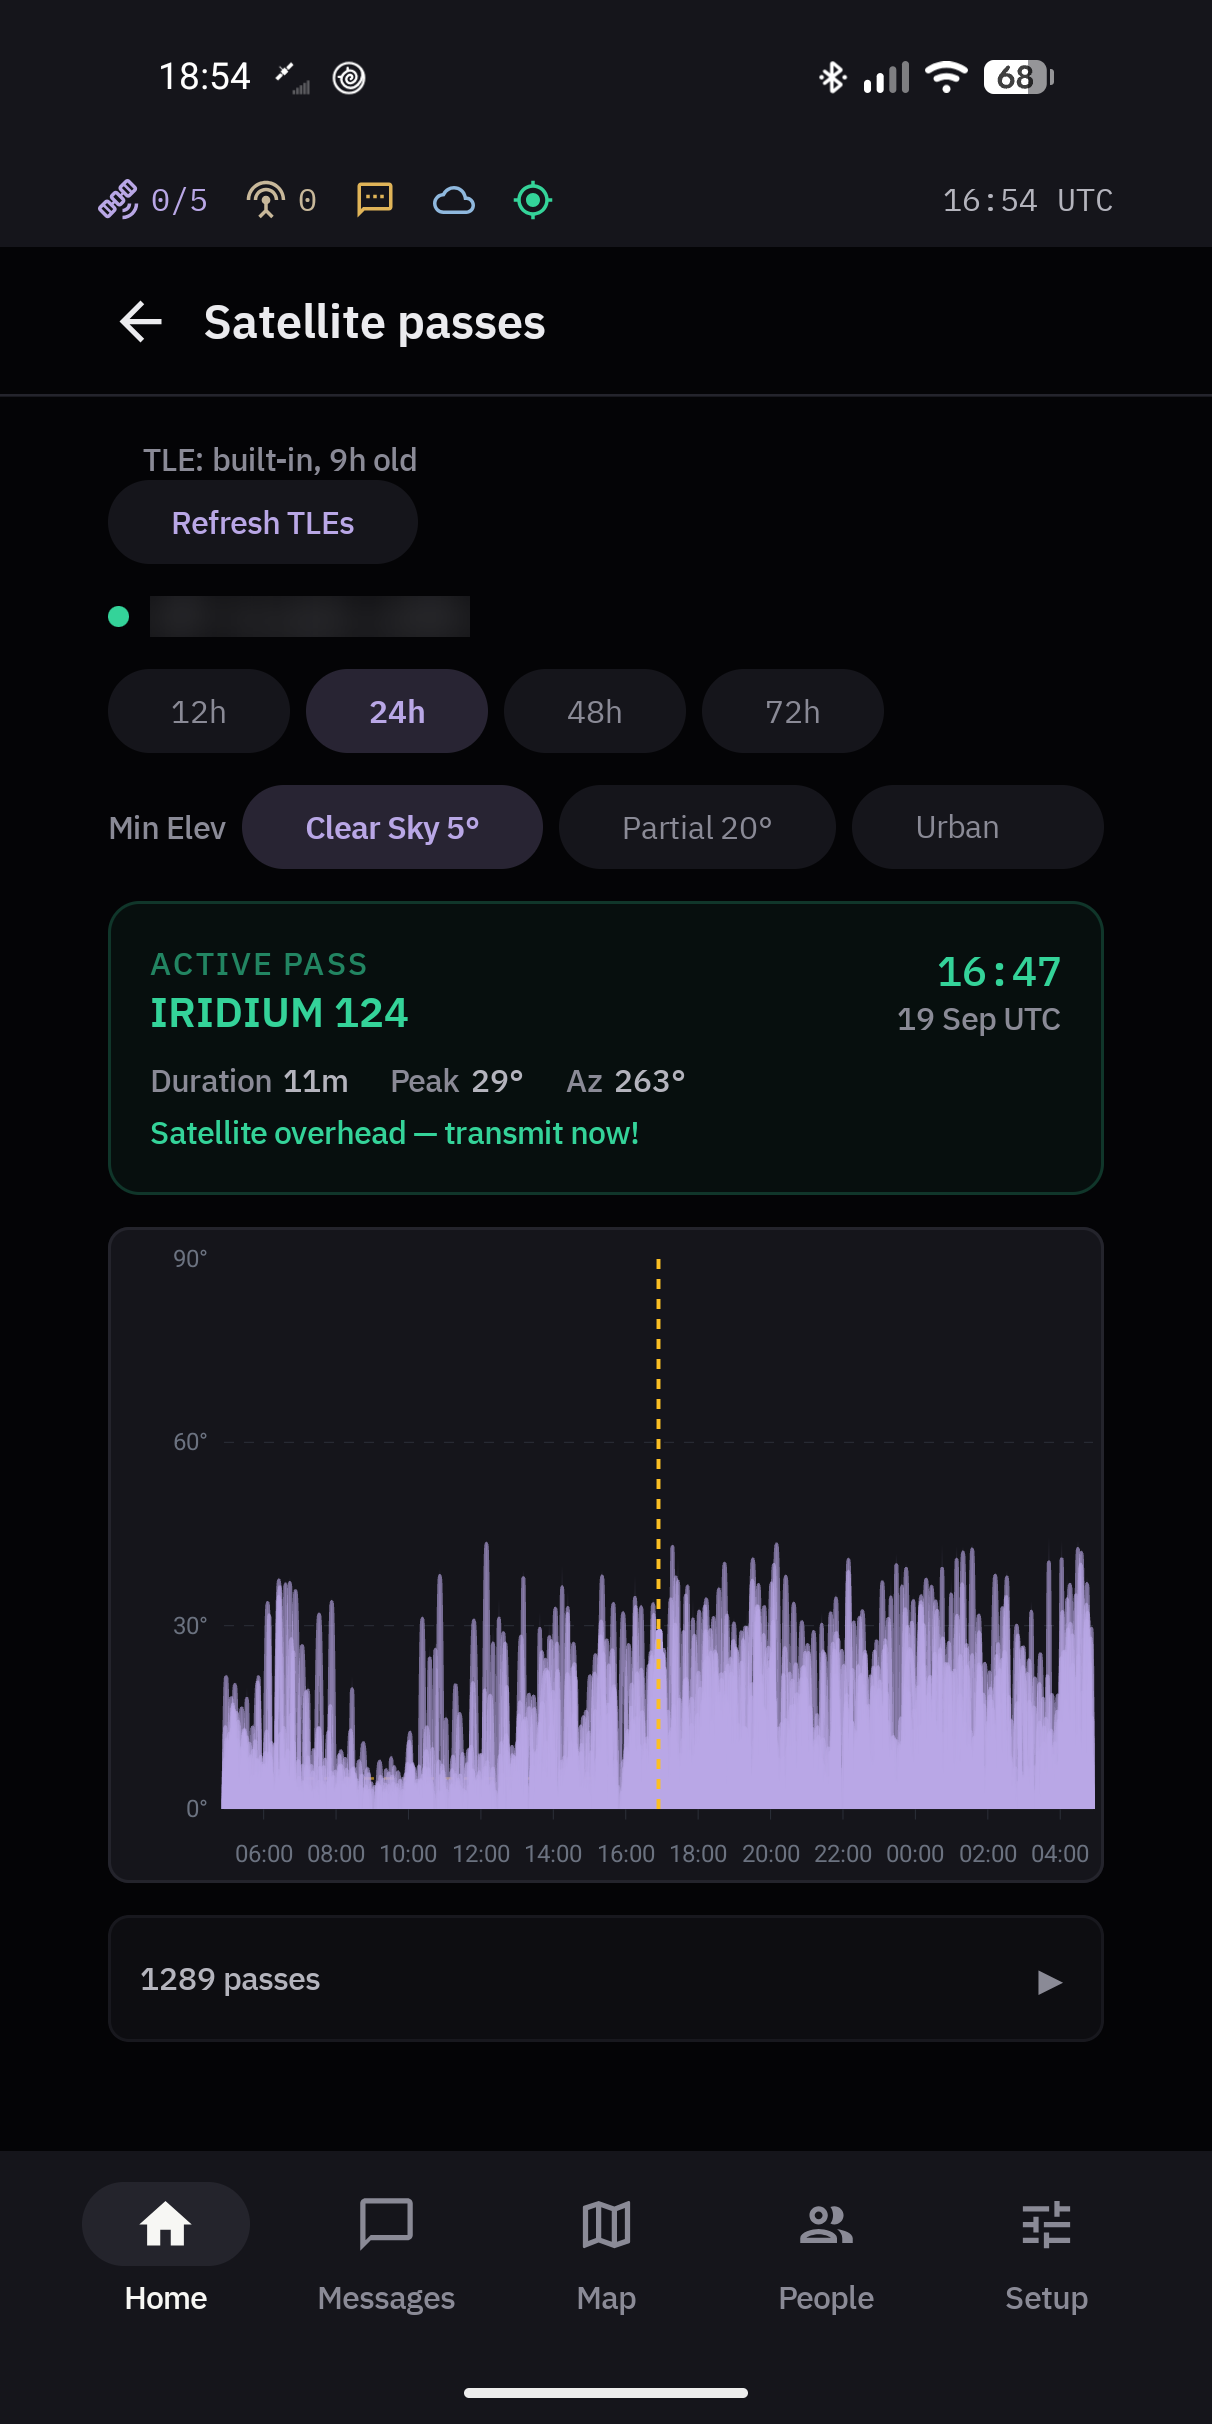
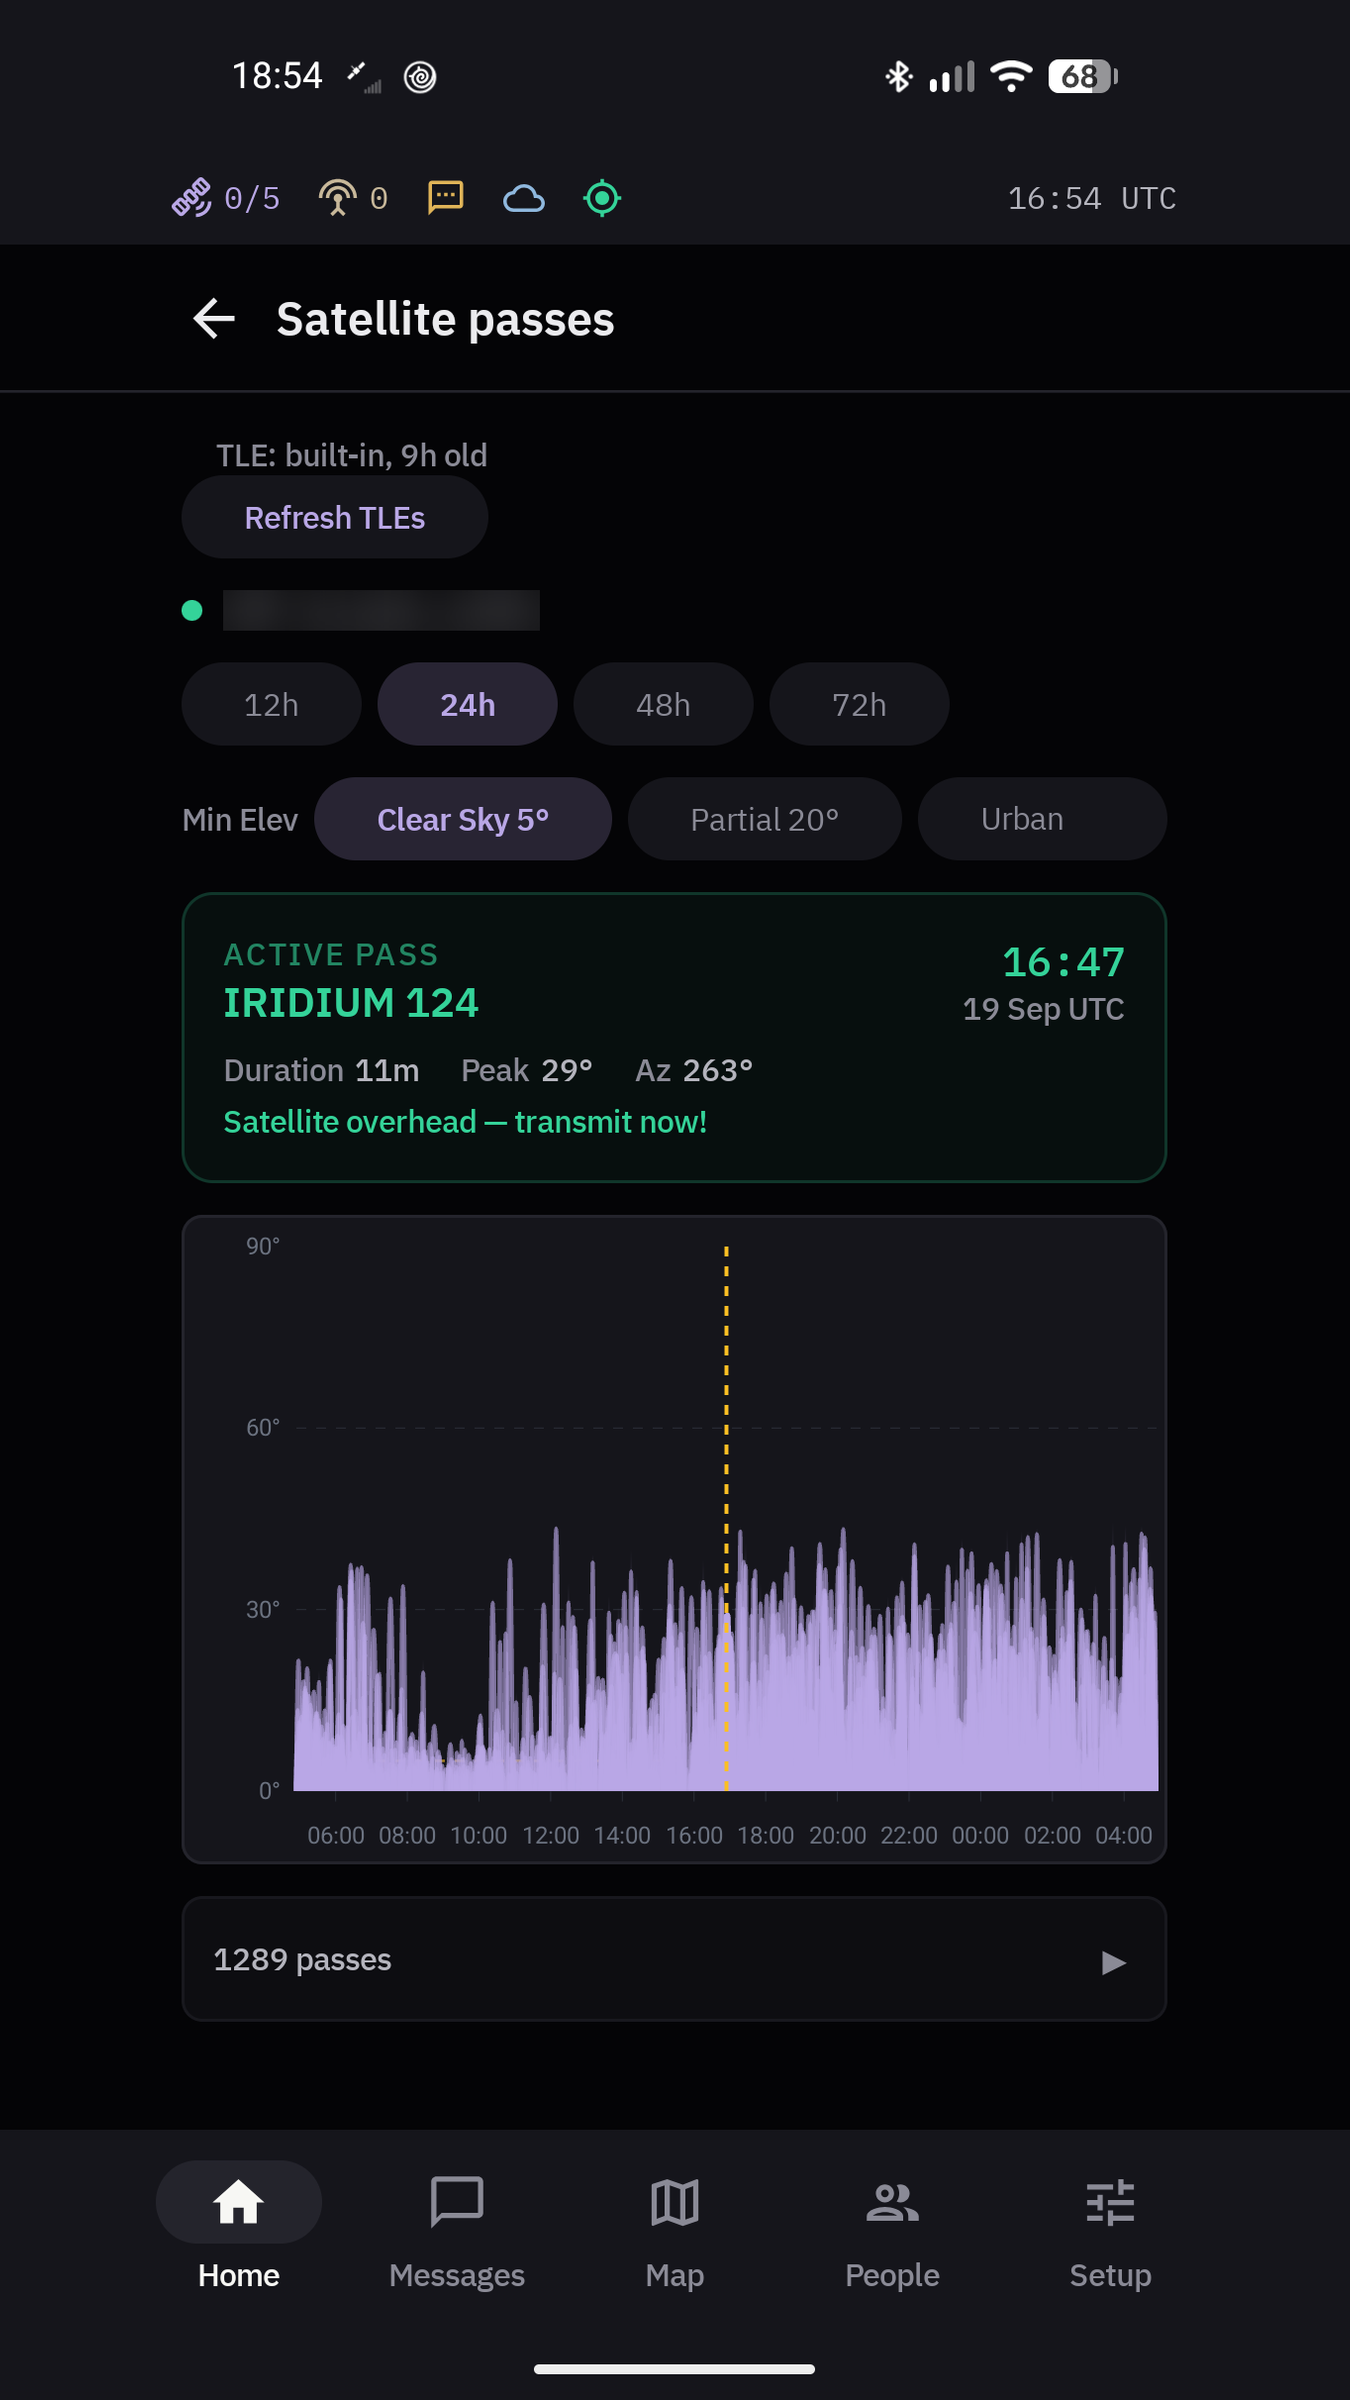
fix(play): screenshots at exactly 9:16, what the store listing form takes [MESHSAT-1335]

diff --git a/fastlane/metadata/play/README.md b/fastlane/metadata/play/README.md
@@ -9,8 +9,8 @@ promise SMS three times.
 - `en-US/images/featureGraphic.png`: 1024 x 500, cut from the developer-page header
   (`Branding/Google Play/developer-header-4096x2304-logo.jpg`, the sticker logo lockup).
 - `en-US/images/phoneScreenshots/1-4.png`: F-Droid screenshots 3 to 6 (passes, node, satellite,
-  safety), padded to 1212 x 2424 by extending the edge pixels: Play rejects a screenshot whose
-  long side is more than twice its short side, and the phone is 1080 x 2424. 24-bit PNG, no alpha.
+  safety), scaled to 2400 high and padded to 1350 x 2400 by extending the edge pixels: the
+  store listing form takes 9:16 only, and the phone is 1080 x 2424. 24-bit PNG, no alpha.
   Home and Setup are left out because they show the SMS lane and row of the full
   edition; retake them from a `play` build when the listing gets its own set.
 - Release notes come from `fastlane/metadata/android/en-US/changelogs/<versionCode>.txt`, which
